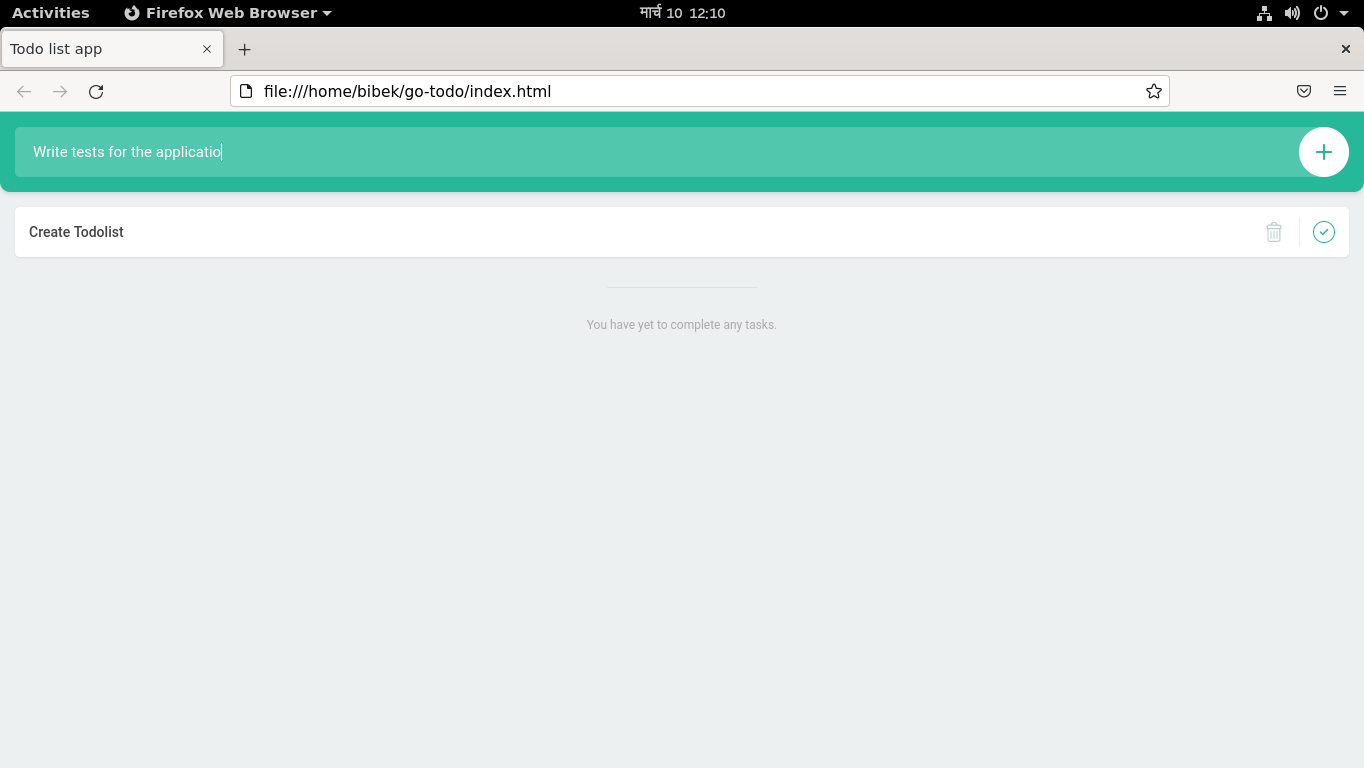
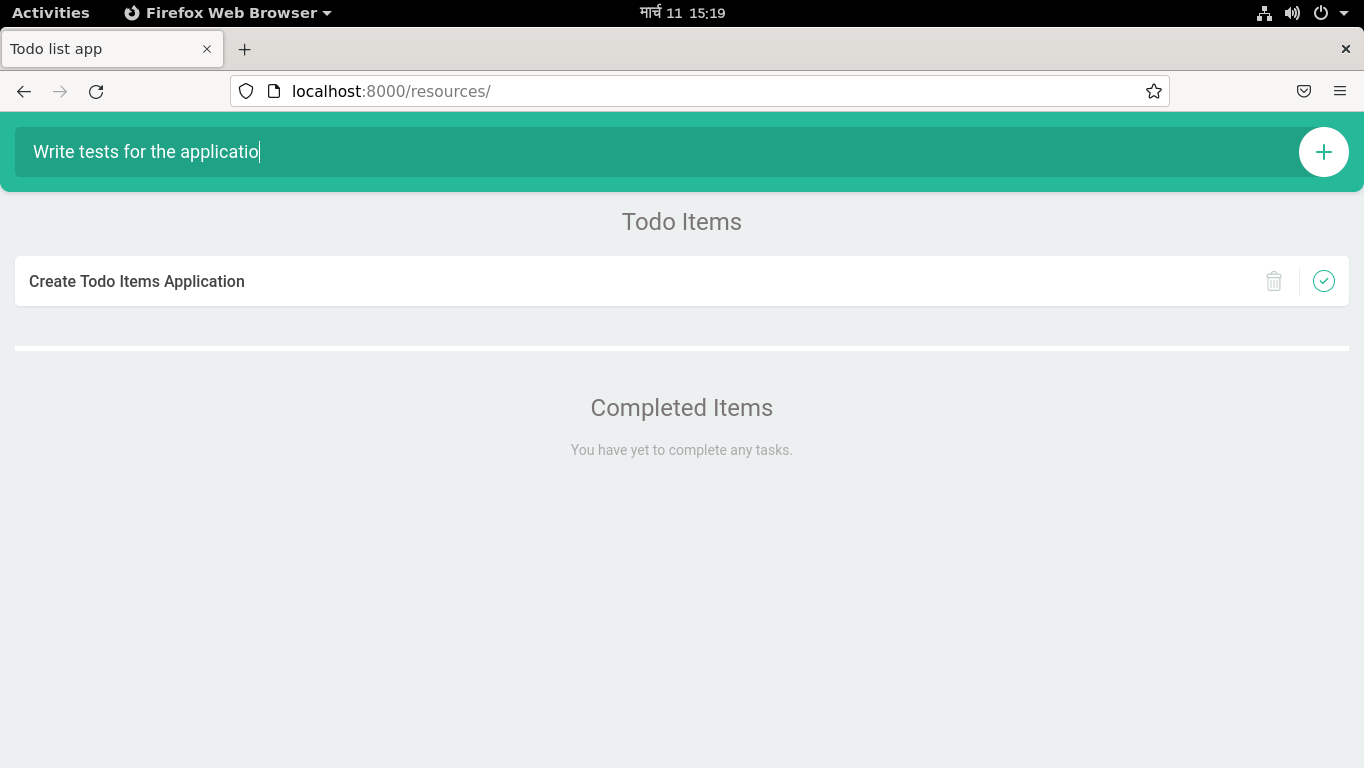
merge Updated file

diff --git a/resources/css/style.css b/resources/css/style.css
@@ -33,12 +33,12 @@ header input {
   width: 100%;
   height: 50px;
   float: left;
-  color: #fff;
-  font-size: 15px;
+  color: rgb(255, 255, 255);
+  font-size: 18px;
   font-weight: 400;
   text-indent: 18px;
   padding: 0 60px 0 0;
-  background: rgba(255, 255, 255, 0.2);
+  background: rgba(12, 71, 54, 0.2);
   border-radius: 5px 25px 25px 5px;
   border: 0px;
   box-shadow: none;
@@ -114,7 +114,7 @@ ul.todo li {
   width: 100%;
   min-height: 50px;
   float: left;
-  font-size: 14px;
+  font-size: 16px;
   font-weight: 500;
   color: #444;
   line-height: 22px;
@@ -217,39 +217,51 @@ ul.todo li .buttons button.remove:hover svg .fill {
 ul.todo li .buttons button.complete svg .fill {
   fill: #25b99a;
 }
-
+ul.todo#todo::before{
+  content: 'Todo Items';
+  width: 100%;
+  display: block;
+  text-align: center;
+  font-size: 24px;
+  color:  rgb(122, 117, 117);
+  margin-bottom: 20px;
+}
 ul.todo#completed {
   position: relative;
   padding: 60px 0 0 0;
 }
 
 ul.todo#completed:before {
-  content: '';
-  width: 150px;
-  height: 1px;
-  background: #d8e5e0;
-
-  position: absolute;
-  top: 30px;
-  left: 50%;
-
-  margin: 0 0 0 -75px;
+  content: 'Completed Items';
+  width: 100%;
+  display: block;
+  text-align: center;
+  font-size: 24px;
+  color: rgb(122, 117, 117);
+  margin-top: -18px;
+  margin-bottom:20px;
 }
 
 ul.todo#todo:empty:after {
+  font-size:14px;
   content: 'You have nothing to-do!';
   margin: 15px 0 0 0;
 }
 
 ul.todo#completed:empty:after {
+  font-size:14px;
   content: 'You have yet to complete any tasks.';
 }
 
 ul.todo#todo:after,
-ul.todo#completed:after {
+ul.todo#completed:after{
   width: 100%;
   display: block;
   text-align: center;
-  font-size: 12px;
+  font-size: 24px;
   color: #aaa;
+}
+ul.todo#line hr{
+  margin-top: 40px;
+  border-top: 5px solid rgb(255, 255, 255);
 }

diff --git a/resources/index.html b/resources/index.html
@@ -14,8 +14,8 @@
 		<link href="https://fonts.googleapis.com/css?family=Roboto:400,500,700" rel="stylesheet">
 
 		<!-- Stylesheets -->
-		<link rel="stylesheet" type="text/css" href="resources/css/reset.min.css">
-		<link rel="stylesheet" type="text/css" href="resources/css/style.css">
+		<link rel="stylesheet" type="text/css" href="css/reset.min.css">
+		<link rel="stylesheet" type="text/css" href="css/style.css">
 	</head>
 	<body>
 
@@ -29,13 +29,13 @@
 		<div class="container">
 			<!-- Uncompleted tasks -->
 			<ul class="todo" id="todo"></ul>
-
+			<ul class="todo" id="line"><hr></ul>
 			<!-- Completed tasks -->
 			<ul class="todo" id="completed"></ul>
 		</div>
 
 		<!-- JavaScripts -->
 		<script src="https://ajax.googleapis.com/ajax/libs/jquery/3.4.1/jquery.min.js"></script>
-		<script src="resources/js/main.js"></script>
+		<script src="js/main.js"></script>
 	</body>
 </html>

diff --git a/resources/js/main.js b/resources/js/main.js
@@ -72,7 +72,7 @@ function addItemToBackend (value) {
 		async: false,
                 success: function(data){
                         result = data;
-			console.log(data);
+
                 }
         });
         return result.ID;

diff --git a/internal/router/router.go b/internal/router/router.go
@@ -12,6 +12,7 @@ import (
 func CORS(next http.Handler) http.Handler {
 	return http.HandlerFunc(func(w http.ResponseWriter, r *http.Request) {
 
+		w.Header().Set("Access-Control-Allow-Headers", "*")
 		w.Header().Set("Access-Control-Allow-Origin", "*")
 		w.Header().Set("Access-Control-Allow-Methods", "*")
 
@@ -21,6 +22,10 @@ func CORS(next http.Handler) http.Handler {
 		}
 		next.ServeHTTP(w, r)
 	})
+}
+
+func redirect(w http.ResponseWriter, r *http.Request) {
+	http.Redirect(w, r, "http://localhost:8000/resources/", http.StatusMovedPermanently)
 }
 
 func RouterHandle() *mux.Router {
@@ -33,7 +38,9 @@ func RouterHandle() *mux.Router {
 	h := controllers.NewBaseHandler(userRepo)
 	router := mux.NewRouter()
 	router.Use(CORS)
-	router.HandleFunc("/healthz", controllers.Healthz).Methods("GET")
+	router.PathPrefix("/resources/").Handler(http.StripPrefix("/resources/", http.FileServer(http.Dir("./resources")))).Methods("GET")
+	router.HandleFunc("/", redirect)
+	router.HandleFunc("/todo/healthz", controllers.Healthz).Methods("GET")
 	router.HandleFunc("/todo-completed", h.GetCompletedItems).Methods("GET")
 	router.HandleFunc("/todo-incomplete", h.GetIncompleteItems).Methods("GET")
 	router.HandleFunc("/todo", h.CreateItem).Methods("POST")

diff --git a/README.md b/README.md
@@ -2,8 +2,8 @@
 
 This is a To-Do list application.
 
-- Server: Golang
-- Client: html, css , javascript
+- Server-side language: Golang
+- Client-side language: html, css , javascript
 - Database: Sqlite
 
 ## Application Requirement
@@ -40,11 +40,11 @@ This is a To-Do list application.
 
 ## Walk through the application
 
-Open the index.html file in any browser
+ Open the application at http://localhost:8000 which will redirect to http://localhost:8000/resources/
 
 ### Index page 
 
-![Index page](/Todolist_images/homepage.png)
+![Index page](/Todolist_images/Home.png)
 
 ### Create a todo list
 
@@ -56,16 +56,18 @@ Enter a todo list and click on add icon or enter.
 
 Click on the tick icon for the todo item to be marked as completed.
 
-![Completed a Todo item](/Todolist_images/completedlist.png)
+![Completed a Todo item](/Todolist_images/completed.png)
 
-### Deleting the Todo Item
-
-Click on the delete icon for the item to be deleted
-
-![Deleting a Todo item](/Todolist_images/Deleted.png)
-
-### To undo a Todo Item
+### To undo a Completed Item
 
 Click on the green tick icon again for the task to be marked Incomplete.
 
-![Incomplete a Todo item](/Todolist_images/Incomplete.png)
+![Incomplete a Todo item](/Todolist_images/Undocomplete.png)
+
+### Deleting the Todo Item
+
+Click on the delete icon for the item to be deleted.
+
+![Deleting a Todo item](/Todolist_images/Delete.png)
+
+
